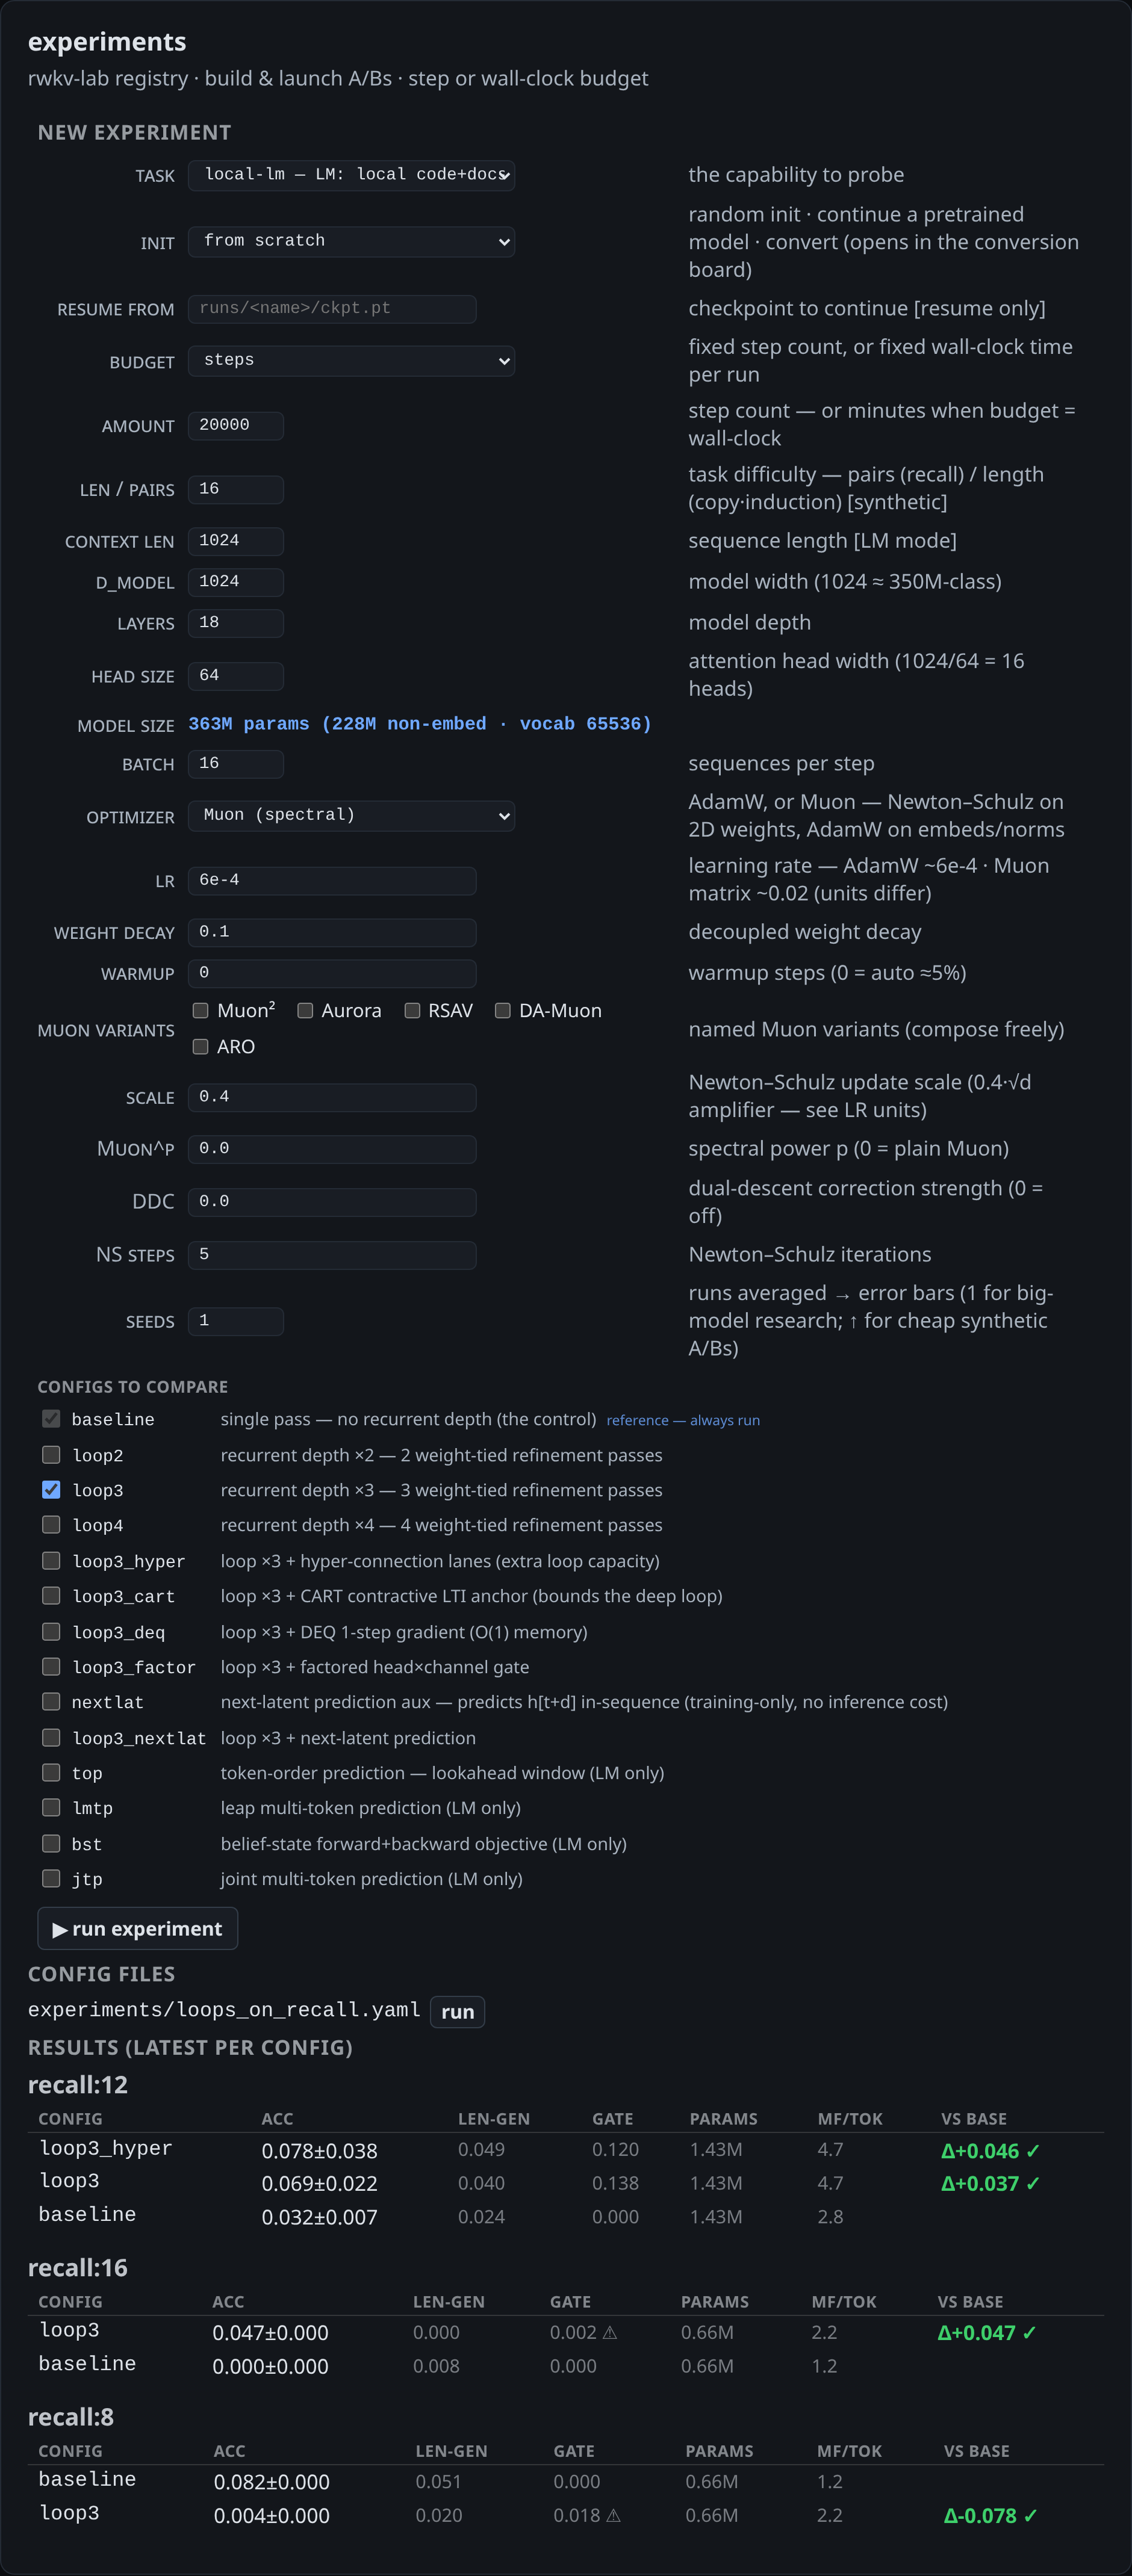
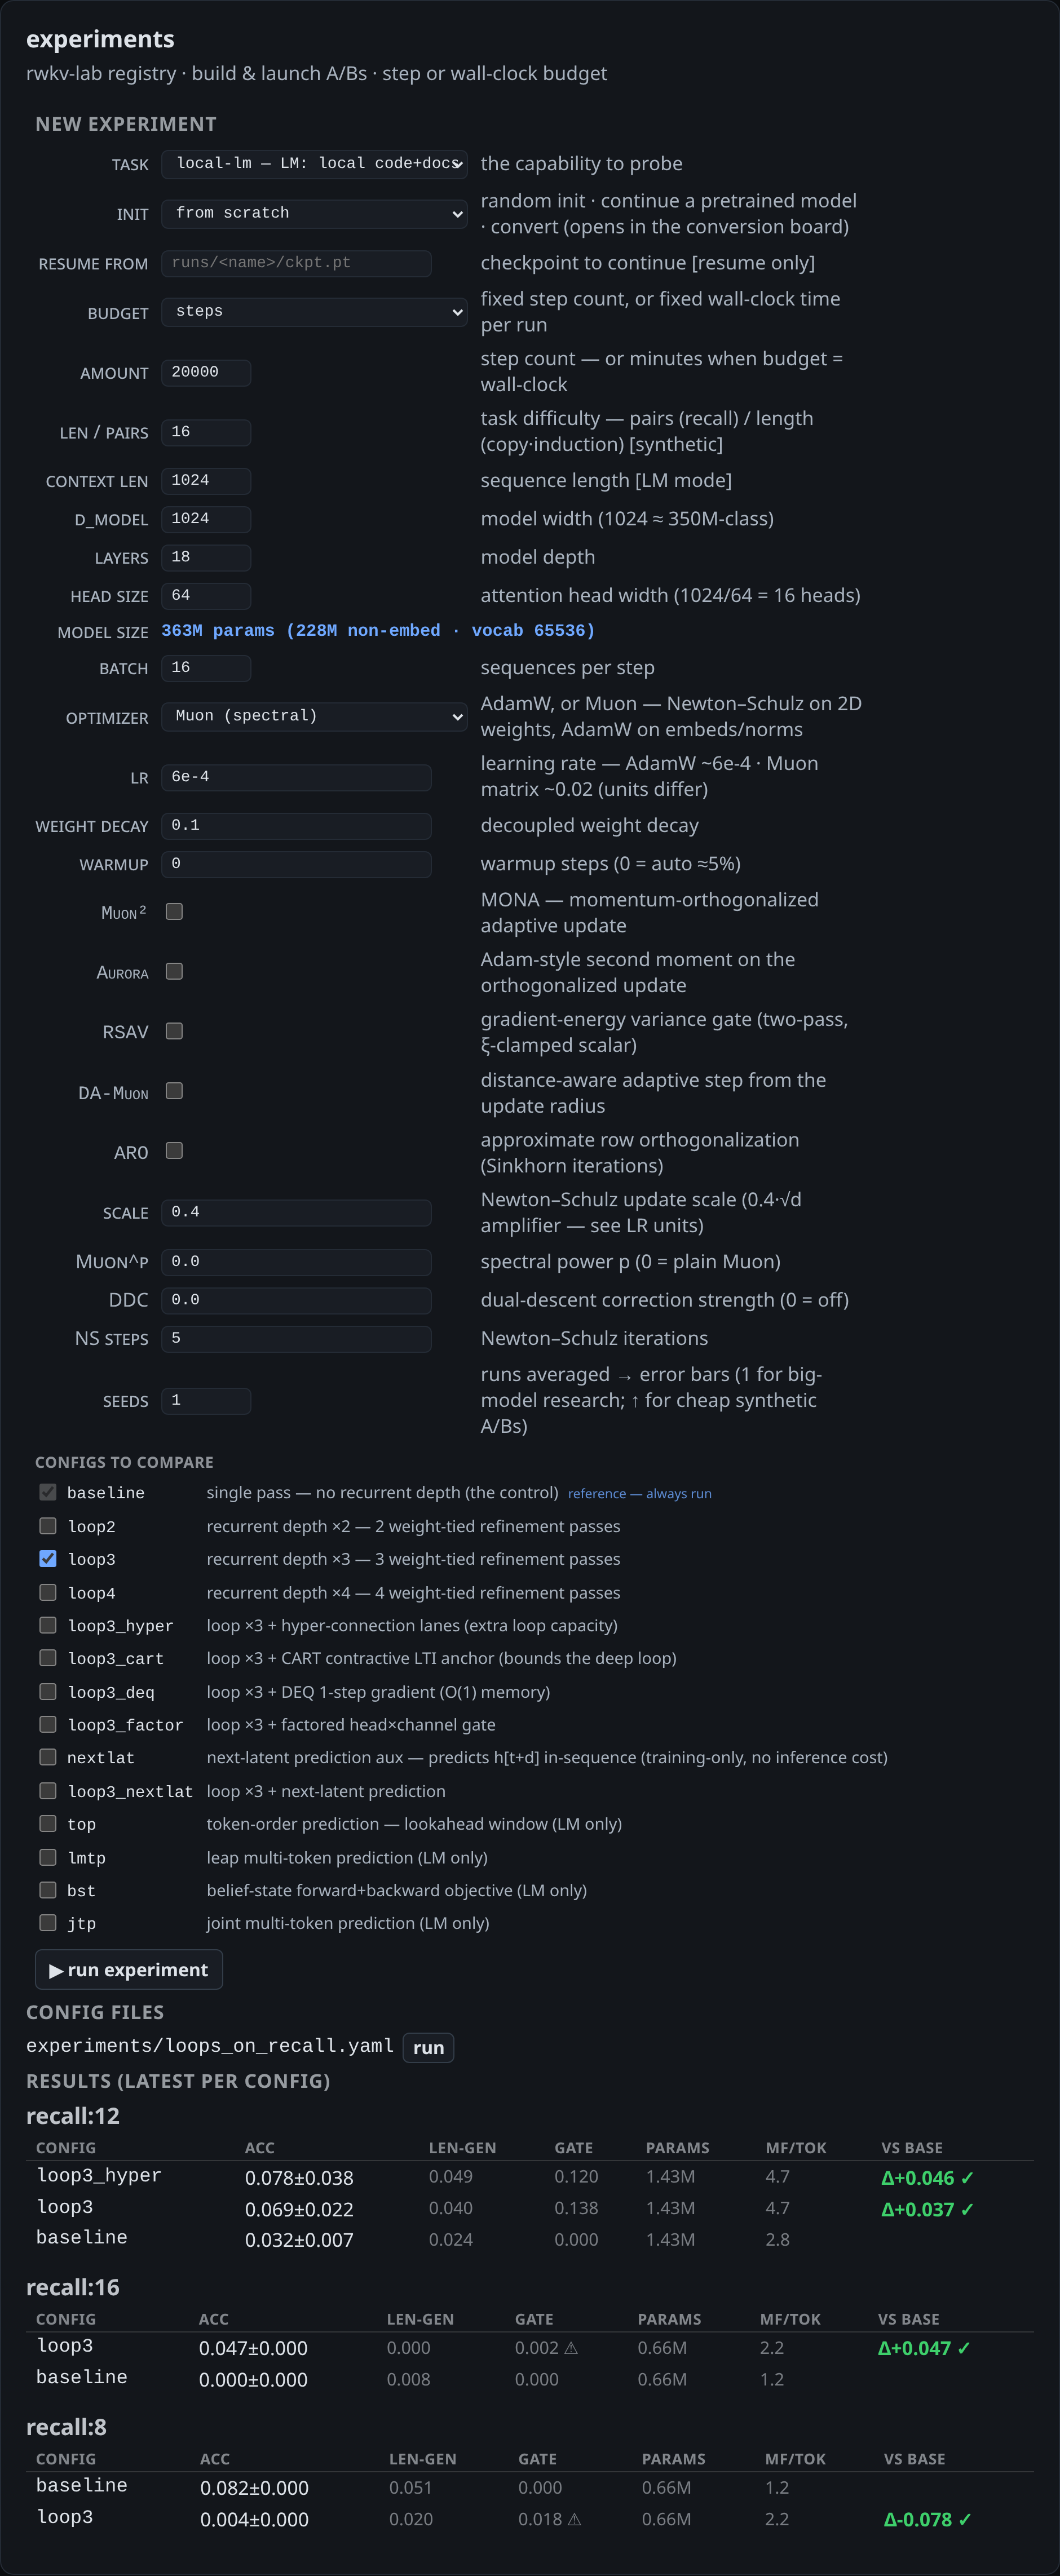
Experiments card: Muon variants as described table rows
Broke the single inline-checkbox 'muon variants' row into one row per variant (name · checkbox ·
description), matching the field-table layout: Muon² (MONA), Aurora, RSAV, DA-Muon, ARO — each with a
one-line description of what it does. Themed the field-table checkboxes (accent, dark). Screenshot
refreshed.

diff --git a/dashboard/web/static/app.css b/dashboard/web/static/app.css
@@ -651,3 +651,7 @@ details.arch-item[open] .lr-caret { transform: rotate(90deg); color: var(--accen
 
 /* live model-size estimate */
 .field-tbl .model-size { color: var(--accent); font-family: var(--mono); font-weight: 600; font-size: .9em; }
+
+/* Muon-variant checkboxes live in the field table now */
+.field-tbl input[type=checkbox] { accent-color: var(--accent); color-scheme: dark; width: 15px; height: 15px; cursor: pointer; }
+.field-tbl tr.muon-off ~ tr .lev-c { }  /* no-op guard */

diff --git a/dashboard/internal/server/experiments.go b/dashboard/internal/server/experiments.go
@@ -196,15 +196,18 @@ func (s *Server) handleExperiments(w http.ResponseWriter, r *http.Request) {
 	strField("lr", "lr", "learning rate — AdamW ~6e-4 · Muon matrix ~0.02 (units differ)", "6e-4")
 	strField("weight decay", "wd", "decoupled weight decay", "0.1")
 	strField("warmup", "warmup", "warmup steps (0 = auto ≈5%)", "0")
-	// Muon variants — rows shown only when optimizer = muon
+	// Muon variants — rows shown only when optimizer = muon; each variant is its own checkbox row
 	moff := ` data-class-muon-off="$optimizer !== 'muon'"`
-	b.WriteString(`<tr` + moff + `><td class="f-l">muon variants</td><td class="muon-toggles">`)
-	for _, v := range []struct{ Sig, Label string }{
-		{"sm_mona", "Muon²"}, {"sm_second_moment", "Aurora"}, {"sm_rsav", "RSAV"},
-		{"sm_da_muon", "DA-Muon"}, {"sm_aro", "ARO"}} {
-		fmt.Fprintf(&b, `<label class="mv"><input type="checkbox" data-bind-%s> %s</label>`, v.Sig, v.Label)
+	mvRow := func(sig, name, desc string) {
+		fmt.Fprintf(&b, `<tr%s><td class="f-l"><label for="%s"><code>%s</code></label></td>`+
+			`<td><input type="checkbox" id="%s" data-bind-%s></td><td class="f-d">%s</td></tr>`,
+			moff, sig, name, sig, sig, esc(desc))
 	}
-	b.WriteString(`</td><td class="f-d">named Muon variants (compose freely)</td></tr>`)
+	mvRow("sm_mona", "Muon²", "MONA — momentum-orthogonalized adaptive update")
+	mvRow("sm_second_moment", "Aurora", "Adam-style second moment on the orthogonalized update")
+	mvRow("sm_rsav", "RSAV", "gradient-energy variance gate (two-pass, ξ-clamped scalar)")
+	mvRow("sm_da_muon", "DA-Muon", "distance-aware adaptive step from the update radius")
+	mvRow("sm_aro", "ARO", "approximate row orthogonalization (Sinkhorn iterations)")
 	msf := func(label, sig, hint, def string) {
 		fmt.Fprintf(&b, `<tr%s><td class="f-l">%s</td><td><input type="text" data-bind-%s value="%s"></td>`+
 			`<td class="f-d">%s</td></tr>`, moff, label, sig, def, esc(hint))